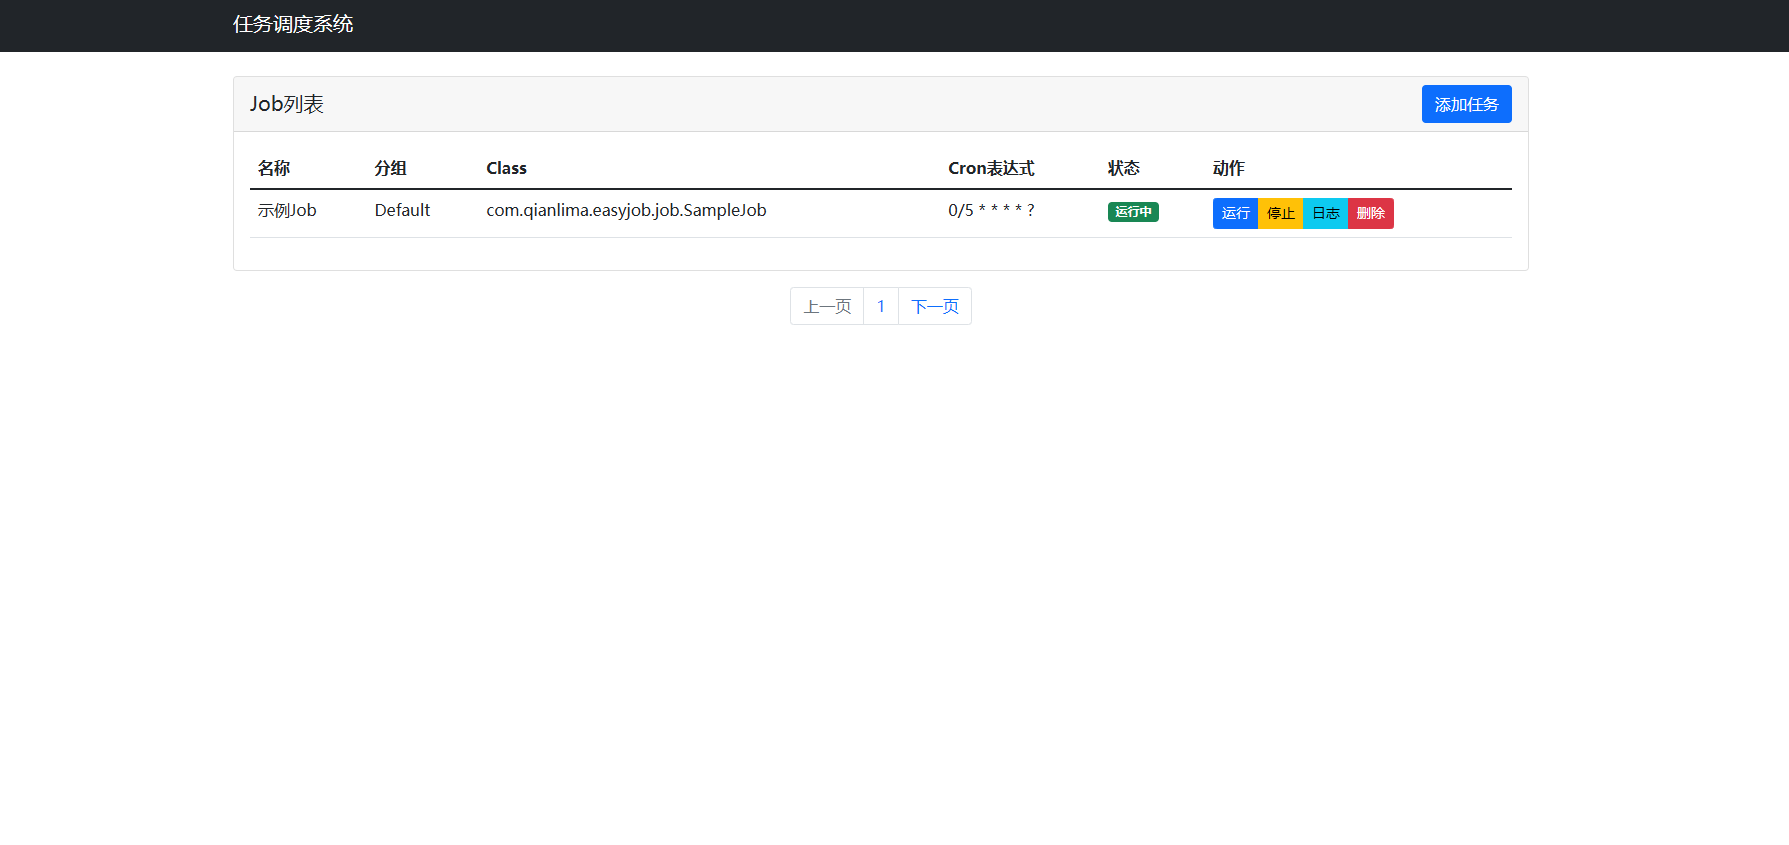
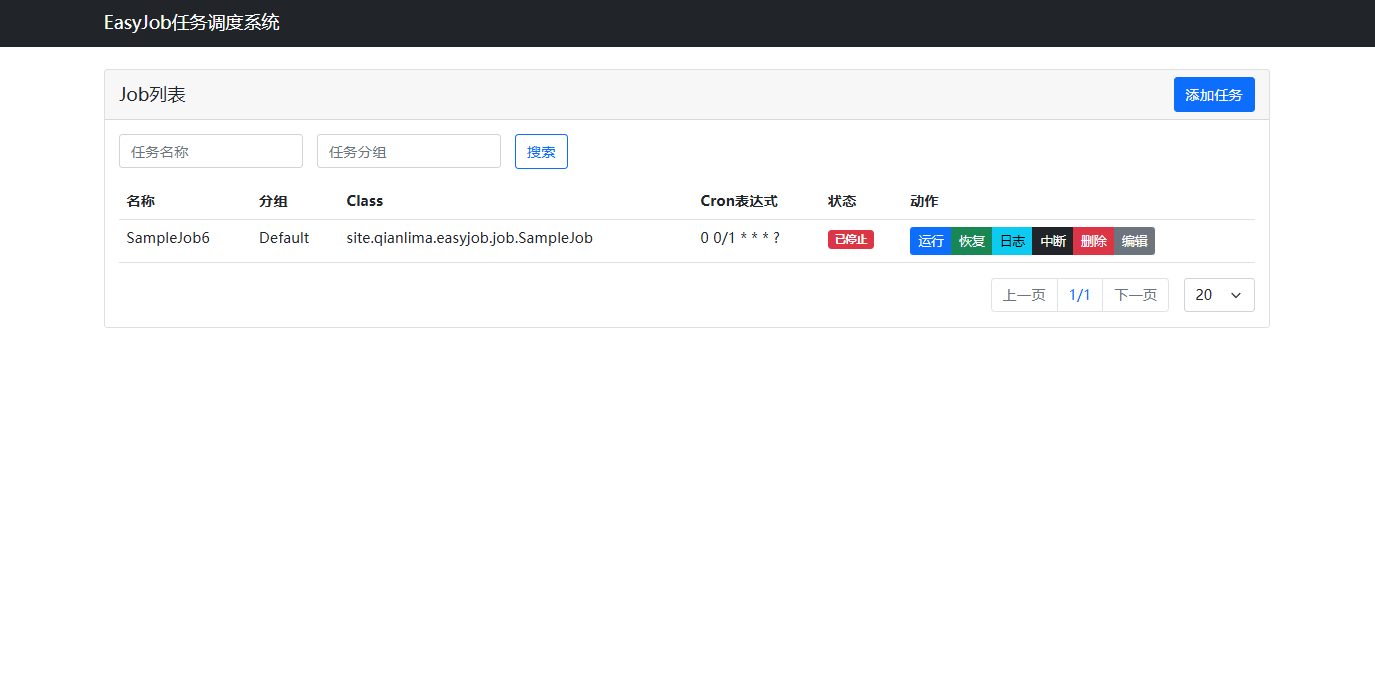
handle http code 401

diff --git a/easy-job-standalone/src/main/resources/templates/job-logs.html b/easy-job-standalone/src/main/resources/templates/job-logs.html
@@ -119,6 +119,20 @@
         var context = window.APP_CONTEXT_PATH
         const lastSlashIndex = context.lastIndexOf("/");
         window.APP_CONTEXT_PATH = context.substring(0, lastSlashIndex);
+
+        // axios全局拦截器，处理401跳转到登录页
+        if (window.axios) {
+            axios.interceptors.response.use(
+                function(response) { return response; },
+                function(error) {
+                    if (error.response && error.response.status === 401) {
+                        window.location.href = window.APP_CONTEXT_PATH + '/login';
+                        return;
+                    }
+                    return Promise.reject(error);
+                }
+            );
+        }
         function clearLogs() {
             const jobId = /*[[${job.id}]]*/ null;
             if (confirm('Are you sure you want to clear all logs for this job?')) {

diff --git a/easy-job-standalone/src/main/resources/templates/dashboard.html b/easy-job-standalone/src/main/resources/templates/dashboard.html
@@ -207,6 +207,20 @@
         var context = window.APP_CONTEXT_PATH
         const lastSlashIndex = context.lastIndexOf("/");
         window.APP_CONTEXT_PATH = context.substring(0, lastSlashIndex);
+
+        // axios全局拦截器，处理401跳转到登录页
+        if (window.axios) {
+            axios.interceptors.response.use(
+                function(response) { return response; },
+                function(error) {
+                    if (error.response && error.response.status === 401) {
+                        window.location.href = window.APP_CONTEXT_PATH + '/login';
+                        return;
+                    }
+                    return Promise.reject(error);
+                }
+            );
+        }
         function addJob() {
             const form = document.getElementById('addJobForm');
             const formData = new FormData(form);
